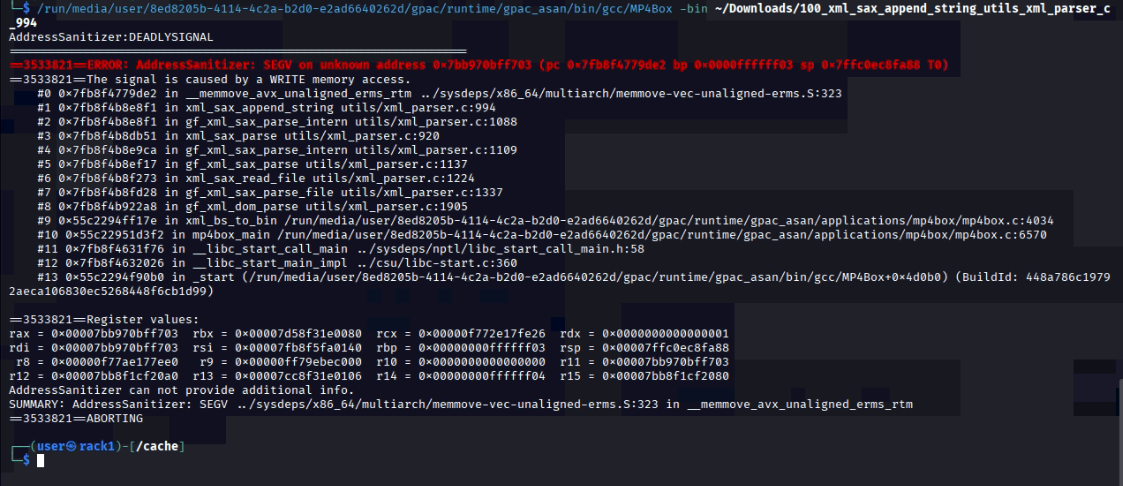
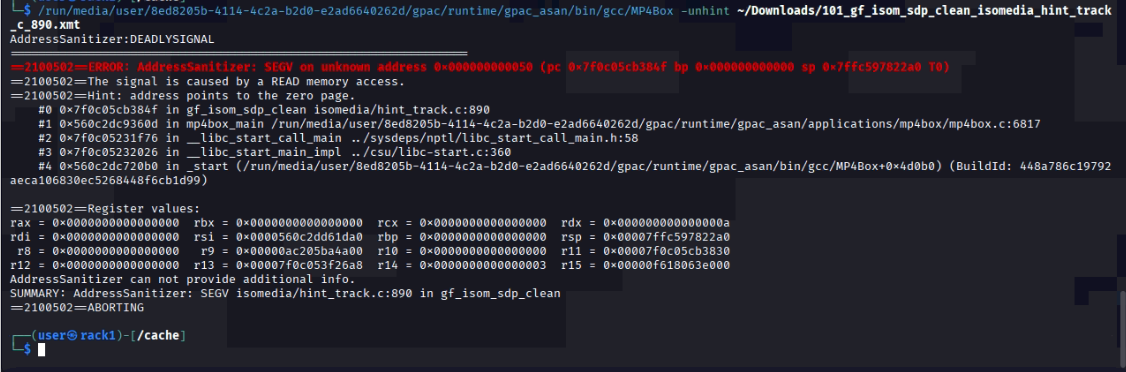
+

Changed region(s): [[0.0, 0.0, 0.9973, 0.9758], [0.9973, 0.9758, 1.0, 1.0], [0.9662, 0.7984, 0.9973, 0.828]]

diff --git a/res/gpac/MP4Box/100/README.md b/res/gpac/MP4Box/100/README.md
@@ -3,5 +3,3 @@
 26.03-DEV-rev386-g85a4cf824-master
 
 https://github.com/gpac/gpac/issues/
-
-fix: 
